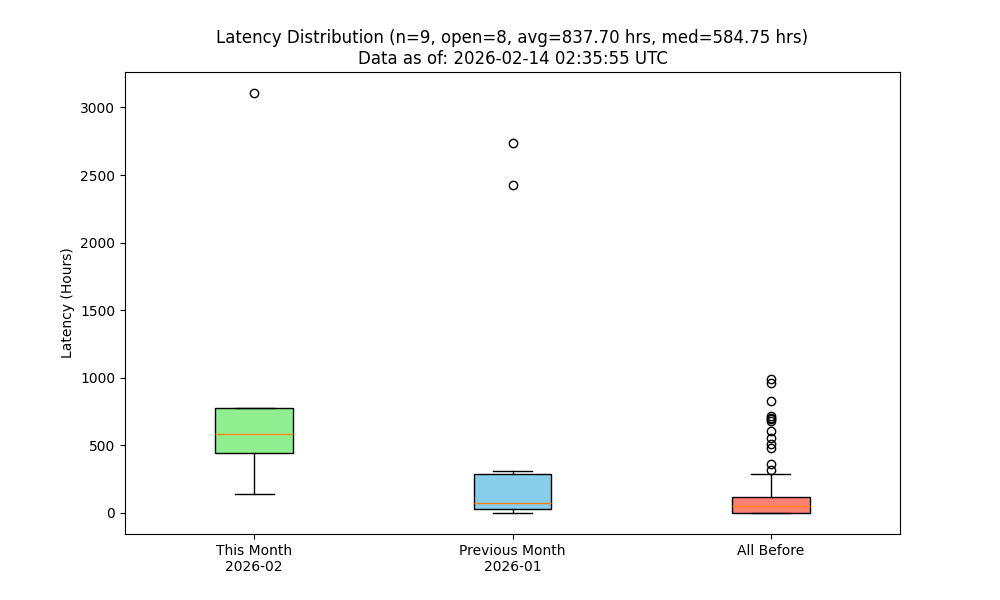
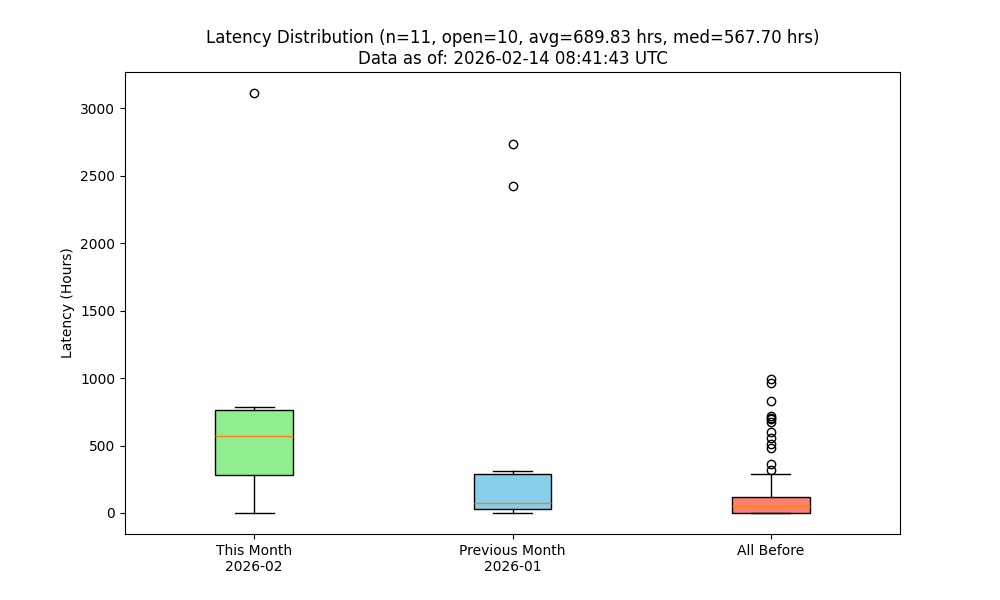
Automatic update: PR data and plot

diff --git a/README.md b/README.md
@@ -55,5 +55,5 @@ Below is a list of all pull-requests that originated from `xlsynth/xlsynth`, gro
 | 2025-11 | [#3278](https://github.com/google/xls/pull/3278) · [#3279](https://github.com/google/xls/pull/3279) · [#3302](https://github.com/google/xls/pull/3302) · [#3317](https://github.com/google/xls/pull/3317) · [#3324](https://github.com/google/xls/pull/3324) · [#3350](https://github.com/google/xls/pull/3350) · [#3363](https://github.com/google/xls/pull/3363) · [#3430](https://github.com/google/xls/pull/3430) · [#3432](https://github.com/google/xls/pull/3432) |
 | 2025-12 | [#3438](https://github.com/google/xls/pull/3438) · [#3471](https://github.com/google/xls/pull/3471) · [#3501](https://github.com/google/xls/pull/3501) · [#3508](https://github.com/google/xls/pull/3508) · [#3627](https://github.com/google/xls/pull/3627) · [#3638](https://github.com/google/xls/pull/3638) |
 | 2026-01 | [#3639](https://github.com/google/xls/pull/3639) · [#3640](https://github.com/google/xls/pull/3640) · [#3643](https://github.com/google/xls/pull/3643) · [#3670 🚧](https://github.com/google/xls/pull/3670) · [#3671 🚧](https://github.com/google/xls/pull/3671) · [#3672](https://github.com/google/xls/pull/3672) · [#3673 🚧](https://github.com/google/xls/pull/3673) · [#3685 🚧](https://github.com/google/xls/pull/3685) · [#3689](https://github.com/google/xls/pull/3689) · [#3692 🚧](https://github.com/google/xls/pull/3692) · [#3693 🧪](https://github.com/google/xls/pull/3693) · [#3698](https://github.com/google/xls/pull/3698) · [#3700](https://github.com/google/xls/pull/3700) · [#3701](https://github.com/google/xls/pull/3701) · [#3702](https://github.com/google/xls/pull/3702) · [#3731 🚧](https://github.com/google/xls/pull/3731) · [#3743 🚧](https://github.com/google/xls/pull/3743) |
-| 2026-02 | [#3785](https://github.com/google/xls/pull/3785) |
+| 2026-02 | [#3785](https://github.com/google/xls/pull/3785) · [#3848 🚧](https://github.com/google/xls/pull/3848) · [#3849 🚧](https://github.com/google/xls/pull/3849) |
 <!-- PR_LINKS_TABLE_END -->
